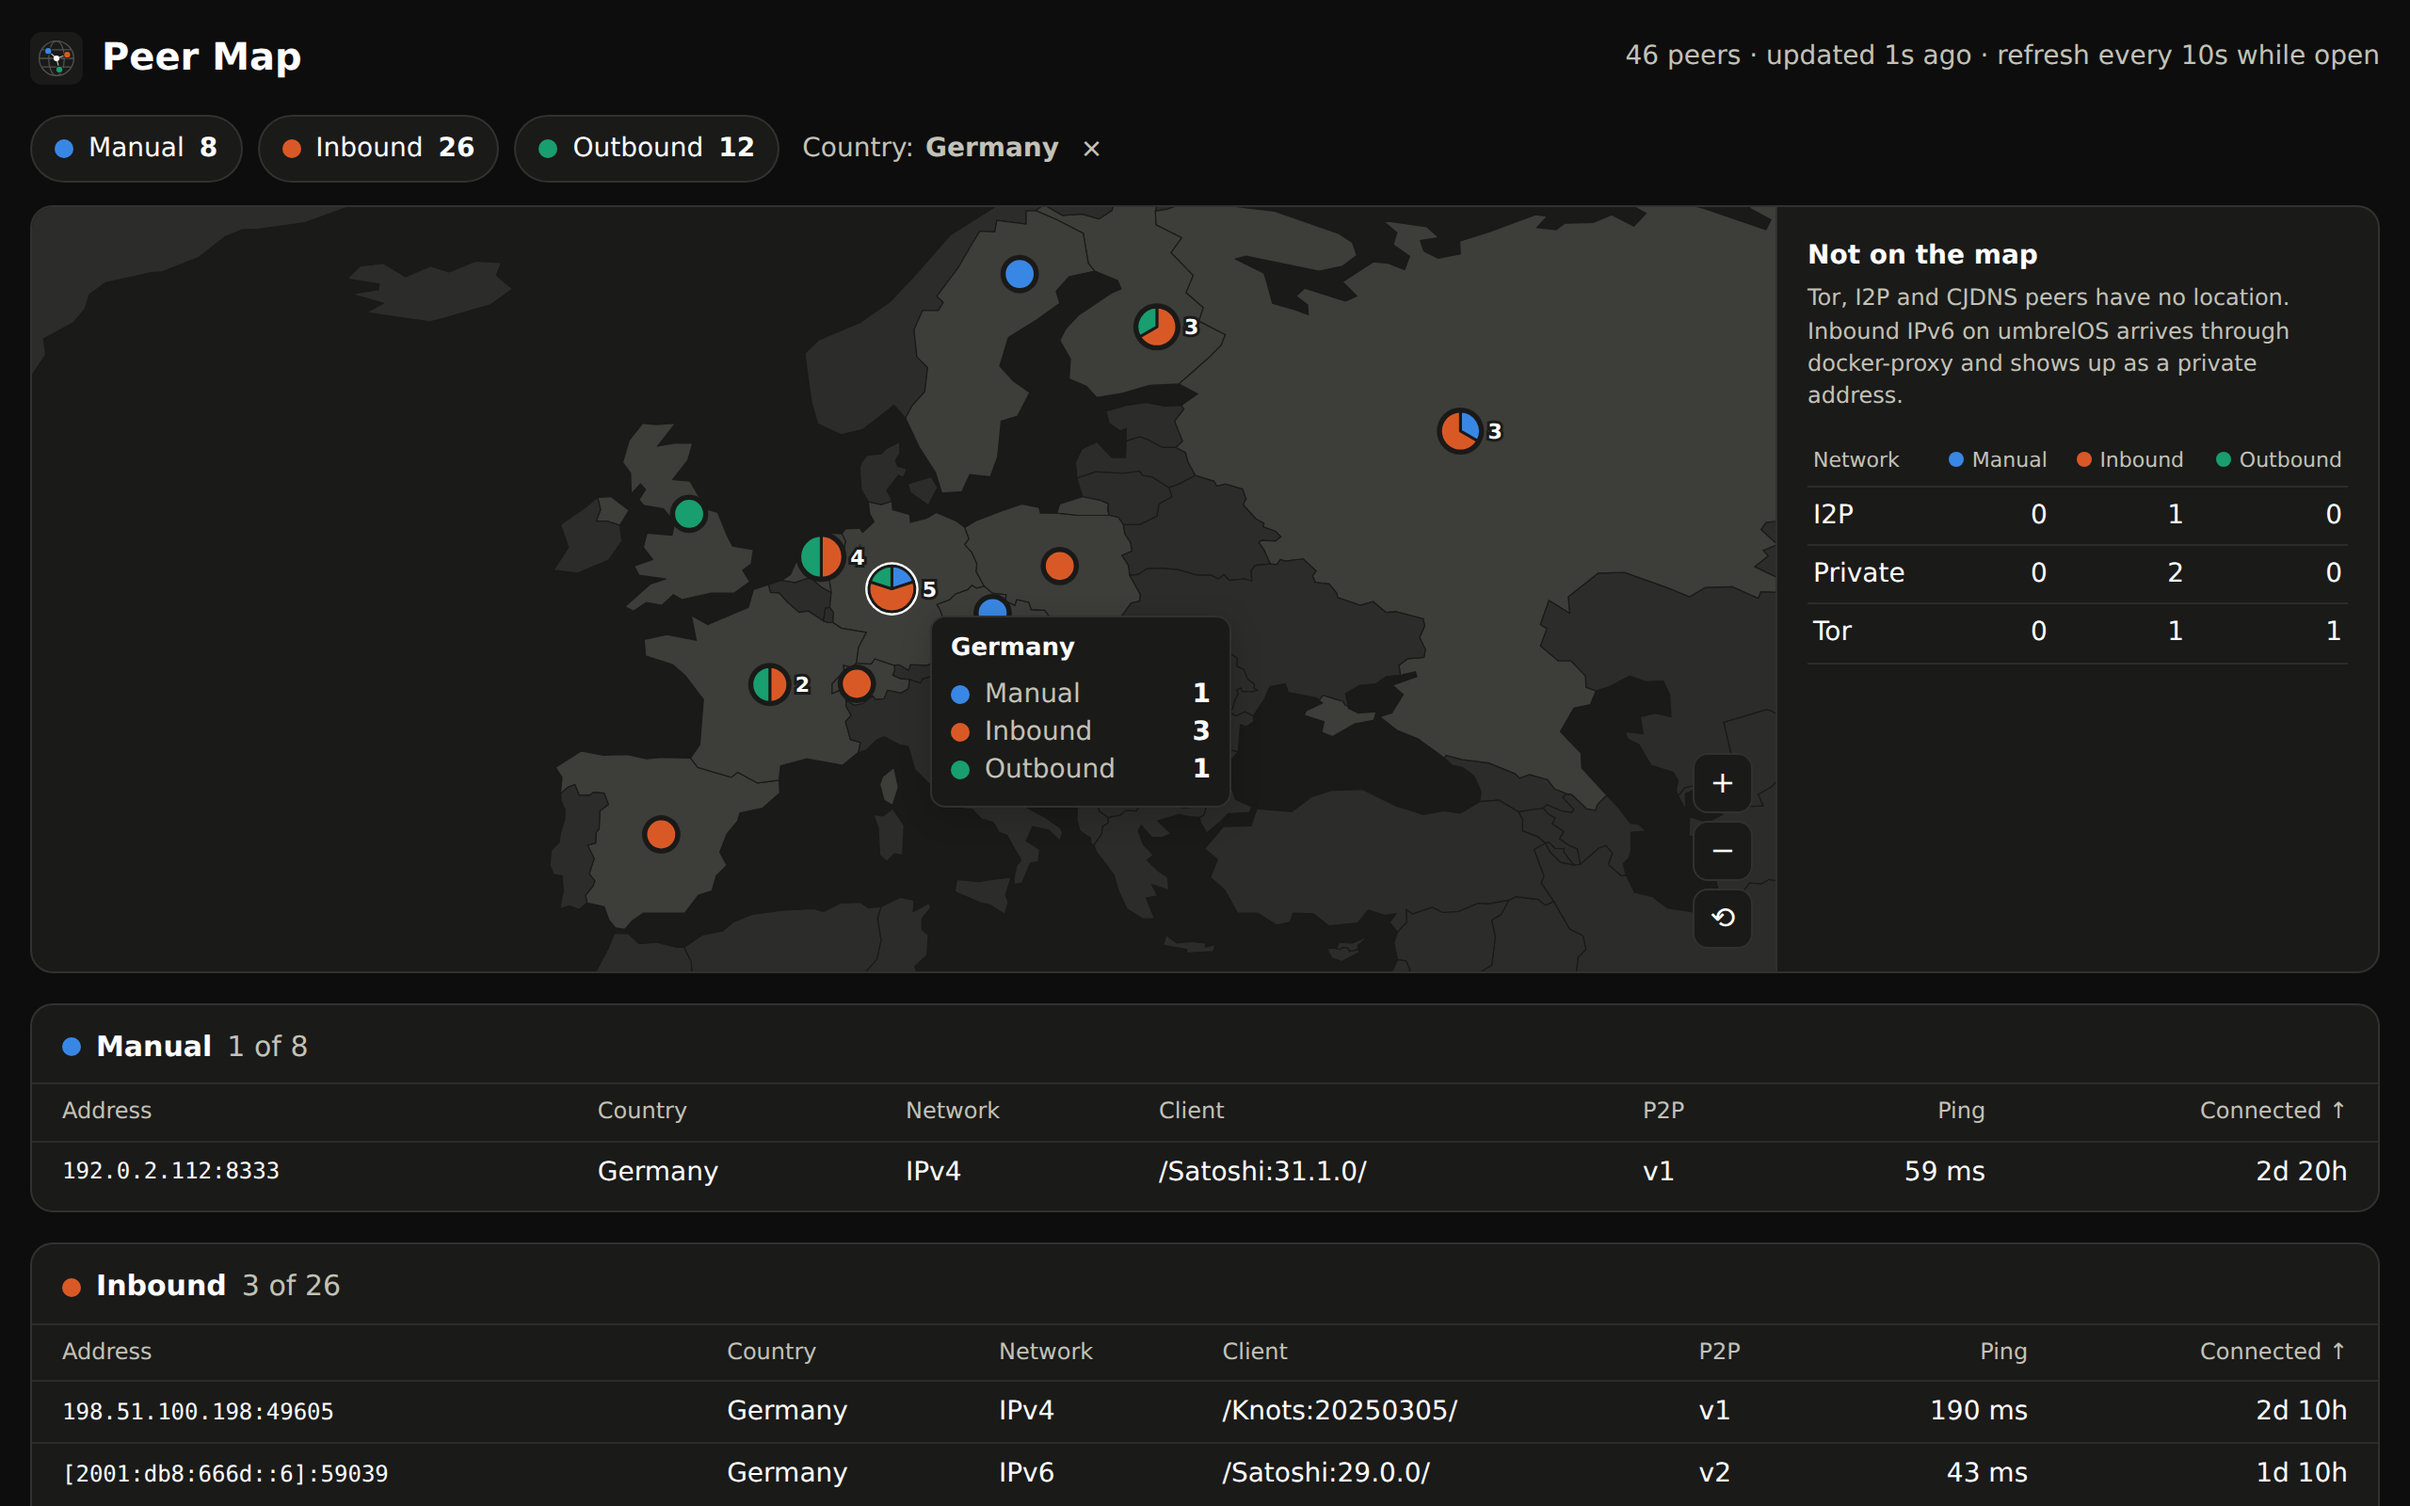
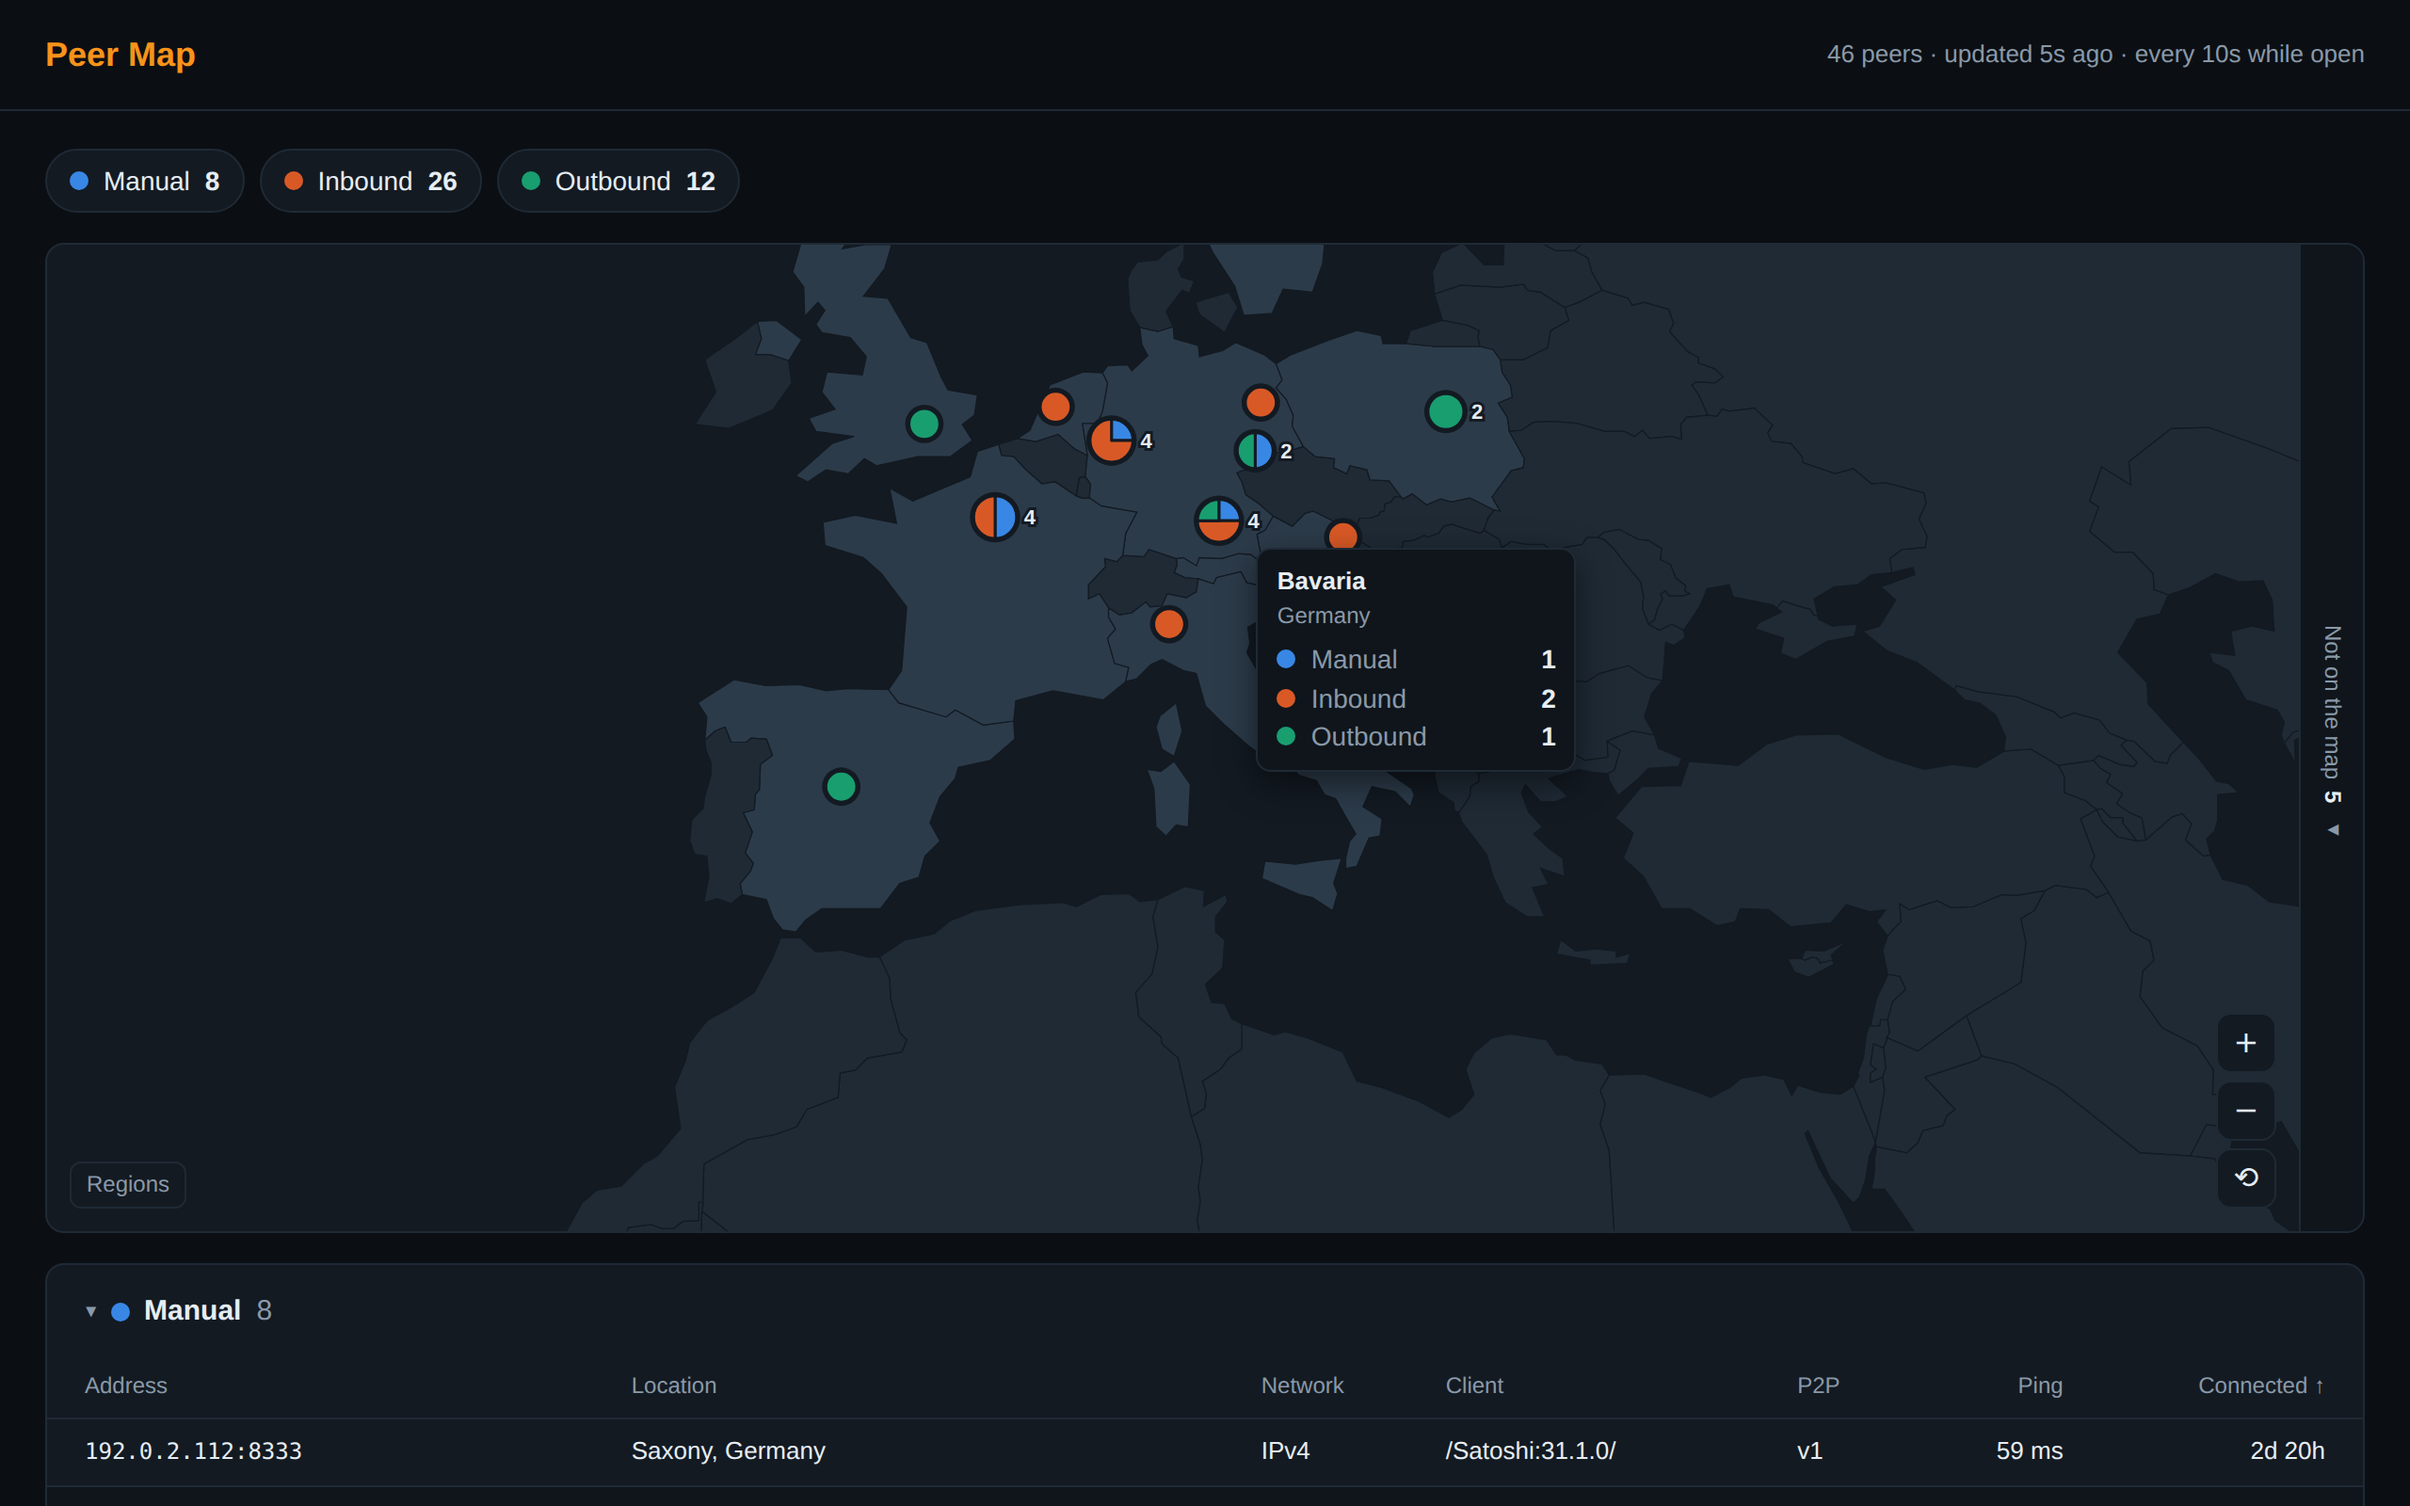
Peer Map 0.2.0
Regions when zoomed in, Bitcoin Lab look, idle pause. Image pinned by tag
and index digest; new screenshots from the demo data.

Claude-Session: https://claude.ai/code/session_01WifBMYQaeUdHMqaSHUJjNG

diff --git a/README.md b/README.md
@@ -26,7 +26,8 @@ for the Umbrel home screen.
 ## Peer Map
 
 The same store also installs **Peer Map**: your node's live peers on a world
-map, with manual, inbound and outbound connections kept apart. It asks Bitcoin
+map, with manual, inbound and outbound connections kept apart, split into
+regions when you zoom in. It asks Bitcoin
 Core for its peer list only while the dashboard is open, at most every ten
 seconds. Source: [**benunskilled/peer-map**](https://github.com/benunskilled/peer-map).
 
